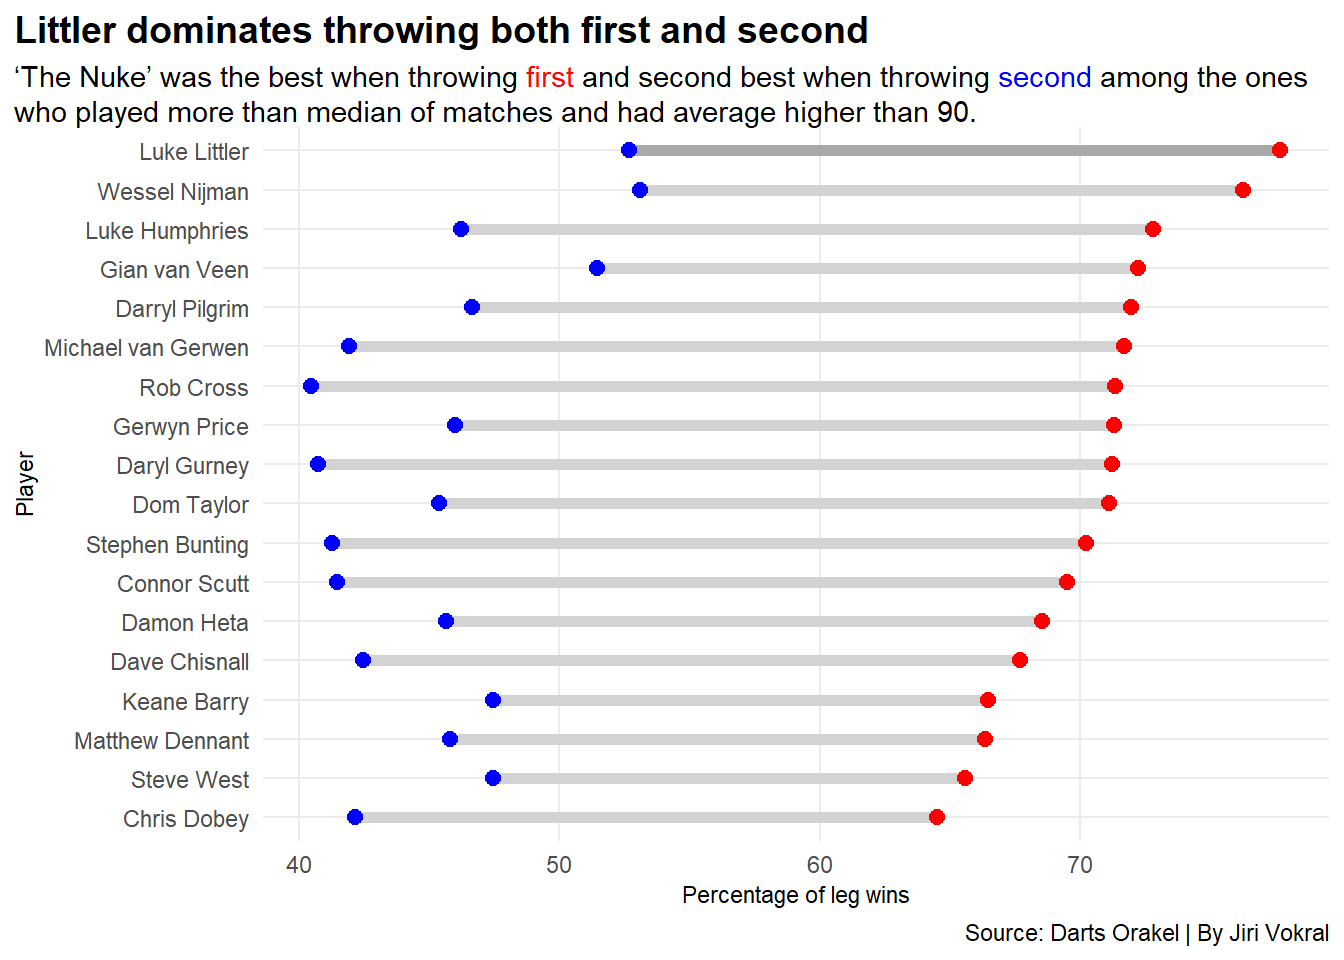
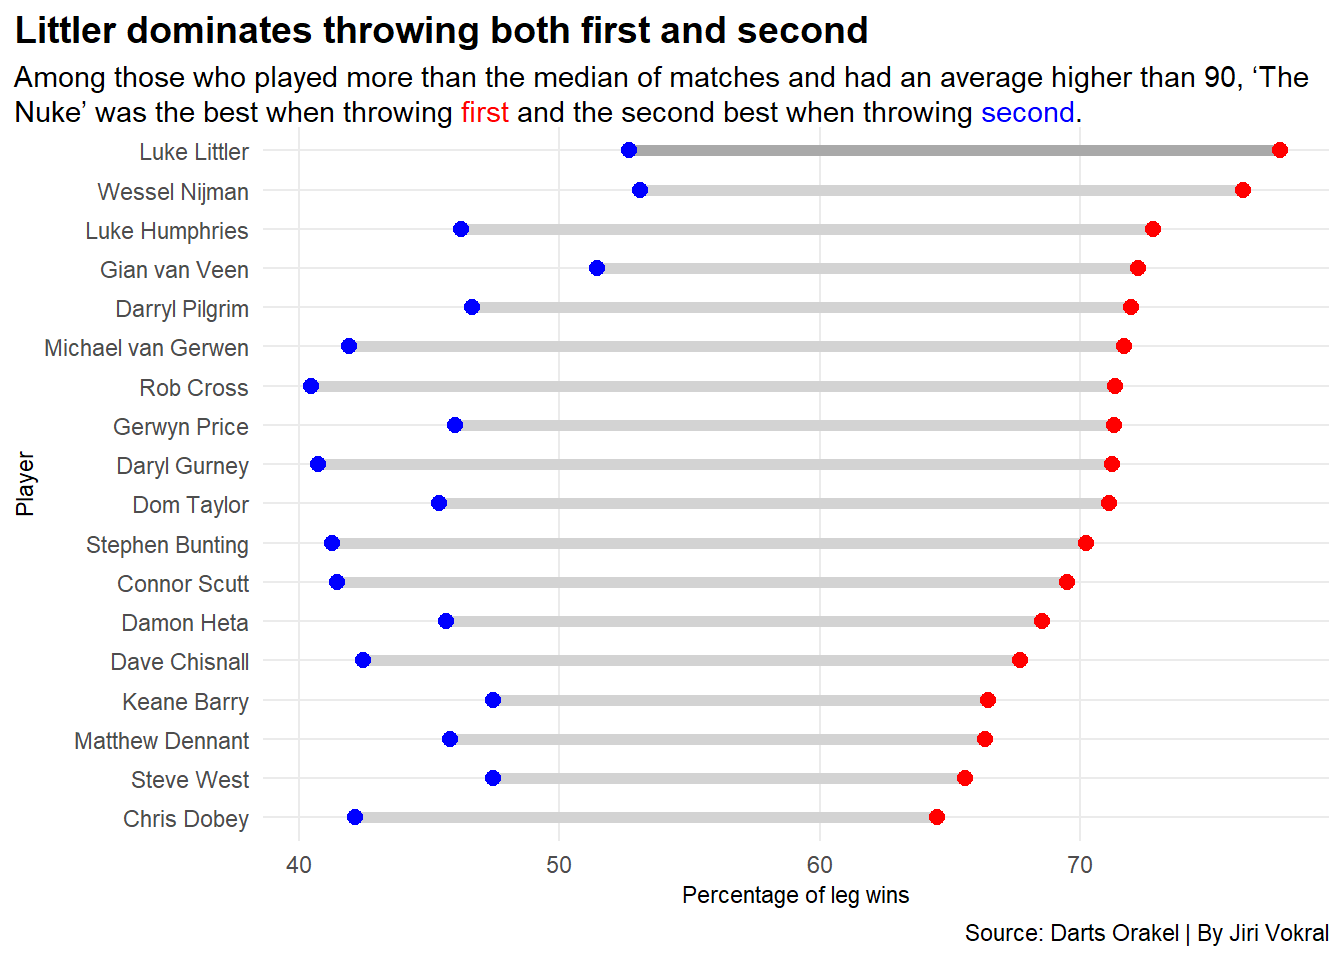
Update image

Changed region(s): [[0.0, 0.0625, 0.9688, 0.125]]

diff --git a/posts/luke-littler-darts/index.html b/posts/luke-littler-darts/index.html
@@ -9,7 +9,7 @@
 <meta name="author" content="Jiri Vokral">
 <meta name="dcterms.date" content="2024-04-14">
 
-<title>Jiri Vokral’ sports data site - Is Luke Littler the best player in the world of darts at the moment?</title>
+<title>Jiri Vokral’ sports data site - Is Luke Littler the best player in the world of darts at the moment??</title>
 <style>
 code{white-space: pre-wrap;}
 span.smallcaps{font-variant: small-caps;}
@@ -149,7 +149,7 @@ pre > code.sourceCode > span > a:first-child::before { text-decoration: underlin
 <header id="title-block-header" class="quarto-title-block default page-columns page-full">
   <div class="quarto-title-banner page-columns page-full">
     <div class="quarto-title column-body">
-      <h1 class="title">Is Luke Littler the best player in the world of darts at the moment?</h1>
+      <h1 class="title">Is Luke Littler the best player in the world of darts at the moment??</h1>
                       </div>
   </div>
     
@@ -228,7 +228,7 @@ pre > code.sourceCode > span > a:first-child::before { text-decoration: underlin
 <span id="cb1-35"><a href="#cb1-35" aria-hidden="true" tabindex="-1"></a>    <span class="at">colour_xend =</span> <span class="st">"red"</span>) <span class="sc">+</span></span>
 <span id="cb1-36"><a href="#cb1-36" aria-hidden="true" tabindex="-1"></a>  <span class="fu">theme_minimal</span>() <span class="sc">+</span></span>
 <span id="cb1-37"><a href="#cb1-37" aria-hidden="true" tabindex="-1"></a>  <span class="fu">labs</span>(<span class="at">title=</span><span class="st">"Littler dominates throwing both first and second"</span>, </span>
-<span id="cb1-38"><a href="#cb1-38" aria-hidden="true" tabindex="-1"></a>    <span class="at">subtitle =</span> <span class="st">" 'The Nuke' was the best when throwing &lt;span style = 'color:red;'&gt;first&lt;/span&gt; and second best when throwing &lt;span style = 'color:blue;'&gt;second&lt;/span&gt; among the ones who played more than median of matches and had average higher than 90."</span>, <span class="at">y=</span> <span class="st">"Player"</span>, <span class="at">x =</span> <span class="st">"Percentage of leg wins"</span>, <span class="at">caption=</span><span class="st">"Source: Darts Orakel | By Jiri Vokral"</span></span>
+<span id="cb1-38"><a href="#cb1-38" aria-hidden="true" tabindex="-1"></a>    <span class="at">subtitle =</span> <span class="st">" Among those who played more than the median of matches and had an average higher than 90, 'The Nuke' was the best when throwing  &lt;span style = 'color:red;'&gt;first&lt;/span&gt; and the second best when throwing &lt;span style = 'color:blue;'&gt;second&lt;/span&gt;."</span>, <span class="at">y=</span> <span class="st">"Player"</span>, <span class="at">x =</span> <span class="st">"Percentage of leg wins"</span>, <span class="at">caption=</span><span class="st">"Source: Darts Orakel | By Jiri Vokral"</span></span>
 <span id="cb1-39"><a href="#cb1-39" aria-hidden="true" tabindex="-1"></a>  ) <span class="sc">+</span> </span>
 <span id="cb1-40"><a href="#cb1-40" aria-hidden="true" tabindex="-1"></a>  <span class="fu">theme</span>(</span>
 <span id="cb1-41"><a href="#cb1-41" aria-hidden="true" tabindex="-1"></a>    <span class="at">plot.title =</span> <span class="fu">element_text</span>(<span class="at">size =</span> <span class="dv">14</span>, <span class="at">face =</span> <span class="st">"bold"</span>),</span>
@@ -251,7 +251,7 @@ pre > code.sourceCode > span > a:first-child::before { text-decoration: underlin
 <p>Brendan Dolan could also only win one set against Littler in the quarterfinals. The 16-year-old sensation made it to the semi-finals of the world’s most prestigious darts tournament. The opponent? World No.&nbsp;8 and former world champion Rob Cross. But even he couldn’t bring himself to send Littler home.</p>
 <p>The Nuke” led 4-2 in the final. He became the darling of the fans, who chanted, “You’ve got school in the morning, school in the morning!”</p>
 <p>But in the end, Luke Humpries turned the dramatic finale around and became the world champion and world No.1. But Littler’s performance earned him an invitation to Premier League Darts, a select company of the best darts players who would meet in fifteen tournaments throughout the spring.</p>
-<p>In eleven tournaments so far, he has reached the finals three times and won twice. As a result, Littler currently leads the overall standings in the highly prestigious Premier League.</p>
+<p>In eleven tournaments so far, he has reached the finals four times and won twice. As a result, Littler currently leads the overall standings in the highly prestigious Premier League.</p>
 <p>Is The Nuke the best player in the world right now?</p>
 <p>“No.&nbsp;No way,” Littler said when journalists asked him that question earlier this year. “You still got Luke Humphries in there, you still got Michael van Gerwen in there. I’m one of the best right now in terms of performance, but I’m not the best in the world,” he added.</p>
 <p>Well.</p>
@@ -386,8 +386,8 @@ pre > code.sourceCode > span > a:first-child::before { text-decoration: underlin
 <span id="cb3-42"><a href="#cb3-42" aria-hidden="true" tabindex="-1"></a>    <span class="fu">aes</span>(<span class="at">x=</span>Maxs_per_match, <span class="at">y=</span>Hundreds_plus, <span class="at">label=</span>Player), <span class="at">nudge_x =</span> .<span class="dv">4</span>, <span class="at">size=</span><span class="dv">4</span>) <span class="sc">+</span></span>
 <span id="cb3-43"><a href="#cb3-43" aria-hidden="true" tabindex="-1"></a>  <span class="fu">theme_minimal</span>() <span class="sc">+</span></span>
 <span id="cb3-44"><a href="#cb3-44" aria-hidden="true" tabindex="-1"></a>   <span class="fu">labs</span>(</span>
-<span id="cb3-45"><a href="#cb3-45" aria-hidden="true" tabindex="-1"></a>    <span class="at">title=</span><span class="st">"World Champion Humpries and legendary Anderson consistently scored the highest"</span>, </span>
-<span id="cb3-46"><a href="#cb3-46" aria-hidden="true" tabindex="-1"></a>    <span class="at">subtitle =</span> <span class="st">"Littler scored above median, but could not get close to the best ones in both number of matches with 100+ average and scored maximums. Black lines indicate the median."</span>,</span>
+<span id="cb3-45"><a href="#cb3-45" aria-hidden="true" tabindex="-1"></a>    <span class="at">title=</span><span class="st">"World Champions Humpries and Anderson consistently scored the highest"</span>, </span>
+<span id="cb3-46"><a href="#cb3-46" aria-hidden="true" tabindex="-1"></a>    <span class="at">subtitle =</span> <span class="st">"Littler could not get close to the best ones in both number of matches with 100+ average and scored maximums per match. Black lines indicate the median."</span>,</span>
 <span id="cb3-47"><a href="#cb3-47" aria-hidden="true" tabindex="-1"></a>    <span class="at">y=</span> <span class="st">"Share of matches with 100+ average (in %)"</span>, <span class="at">x =</span> <span class="st">"Number 180's made per match"</span>, <span class="at">caption=</span><span class="st">"Source: Darts Orakel | By Jiri Vokral"</span></span>
 <span id="cb3-48"><a href="#cb3-48" aria-hidden="true" tabindex="-1"></a>  ) <span class="sc">+</span> </span>
 <span id="cb3-49"><a href="#cb3-49" aria-hidden="true" tabindex="-1"></a>  <span class="fu">theme</span>(</span>

diff --git a/index.html b/index.html
@@ -205,7 +205,7 @@ window.Quarto = {
 
 <div class="quarto-listing quarto-listing-container-default" id="listing-listing">
 <div class="list quarto-listing-default">
-<div class="quarto-post image-right" data-index="0" data-categories="" data-listing-date-sort="1713070800000" data-listing-file-modified-sort="1712862372080" data-listing-date-modified-sort="NaN" data-listing-reading-time-sort="11" data-listing-word-count-sort="2073">
+<div class="quarto-post image-right" data-index="0" data-categories="" data-listing-date-sort="1713070800000" data-listing-file-modified-sort="1712948028529" data-listing-date-modified-sort="NaN" data-listing-reading-time-sort="11" data-listing-word-count-sort="2073">
 <div class="thumbnail">
 <p><a href="./posts/luke-littler-darts/index.html" class="no-external"></a></p><a href="./posts/luke-littler-darts/index.html" class="no-external">
 <p><img src="./posts/luke-littler-darts/image.png" class="thumbnail-image"></p>
@@ -213,7 +213,7 @@ window.Quarto = {
 </div>
 <div class="body">
 <h3 class="no-anchor listing-title">
-<a href="./posts/luke-littler-darts/index.html" class="no-external">Is Luke Littler the best player in the world of darts at the moment?</a>
+<a href="./posts/luke-littler-darts/index.html" class="no-external">Is Luke Littler the best player in the world of darts at the moment??</a>
 </h3>
 <div class="listing-subtitle">
 <a href="./posts/luke-littler-darts/index.html" class="no-external"></a>
